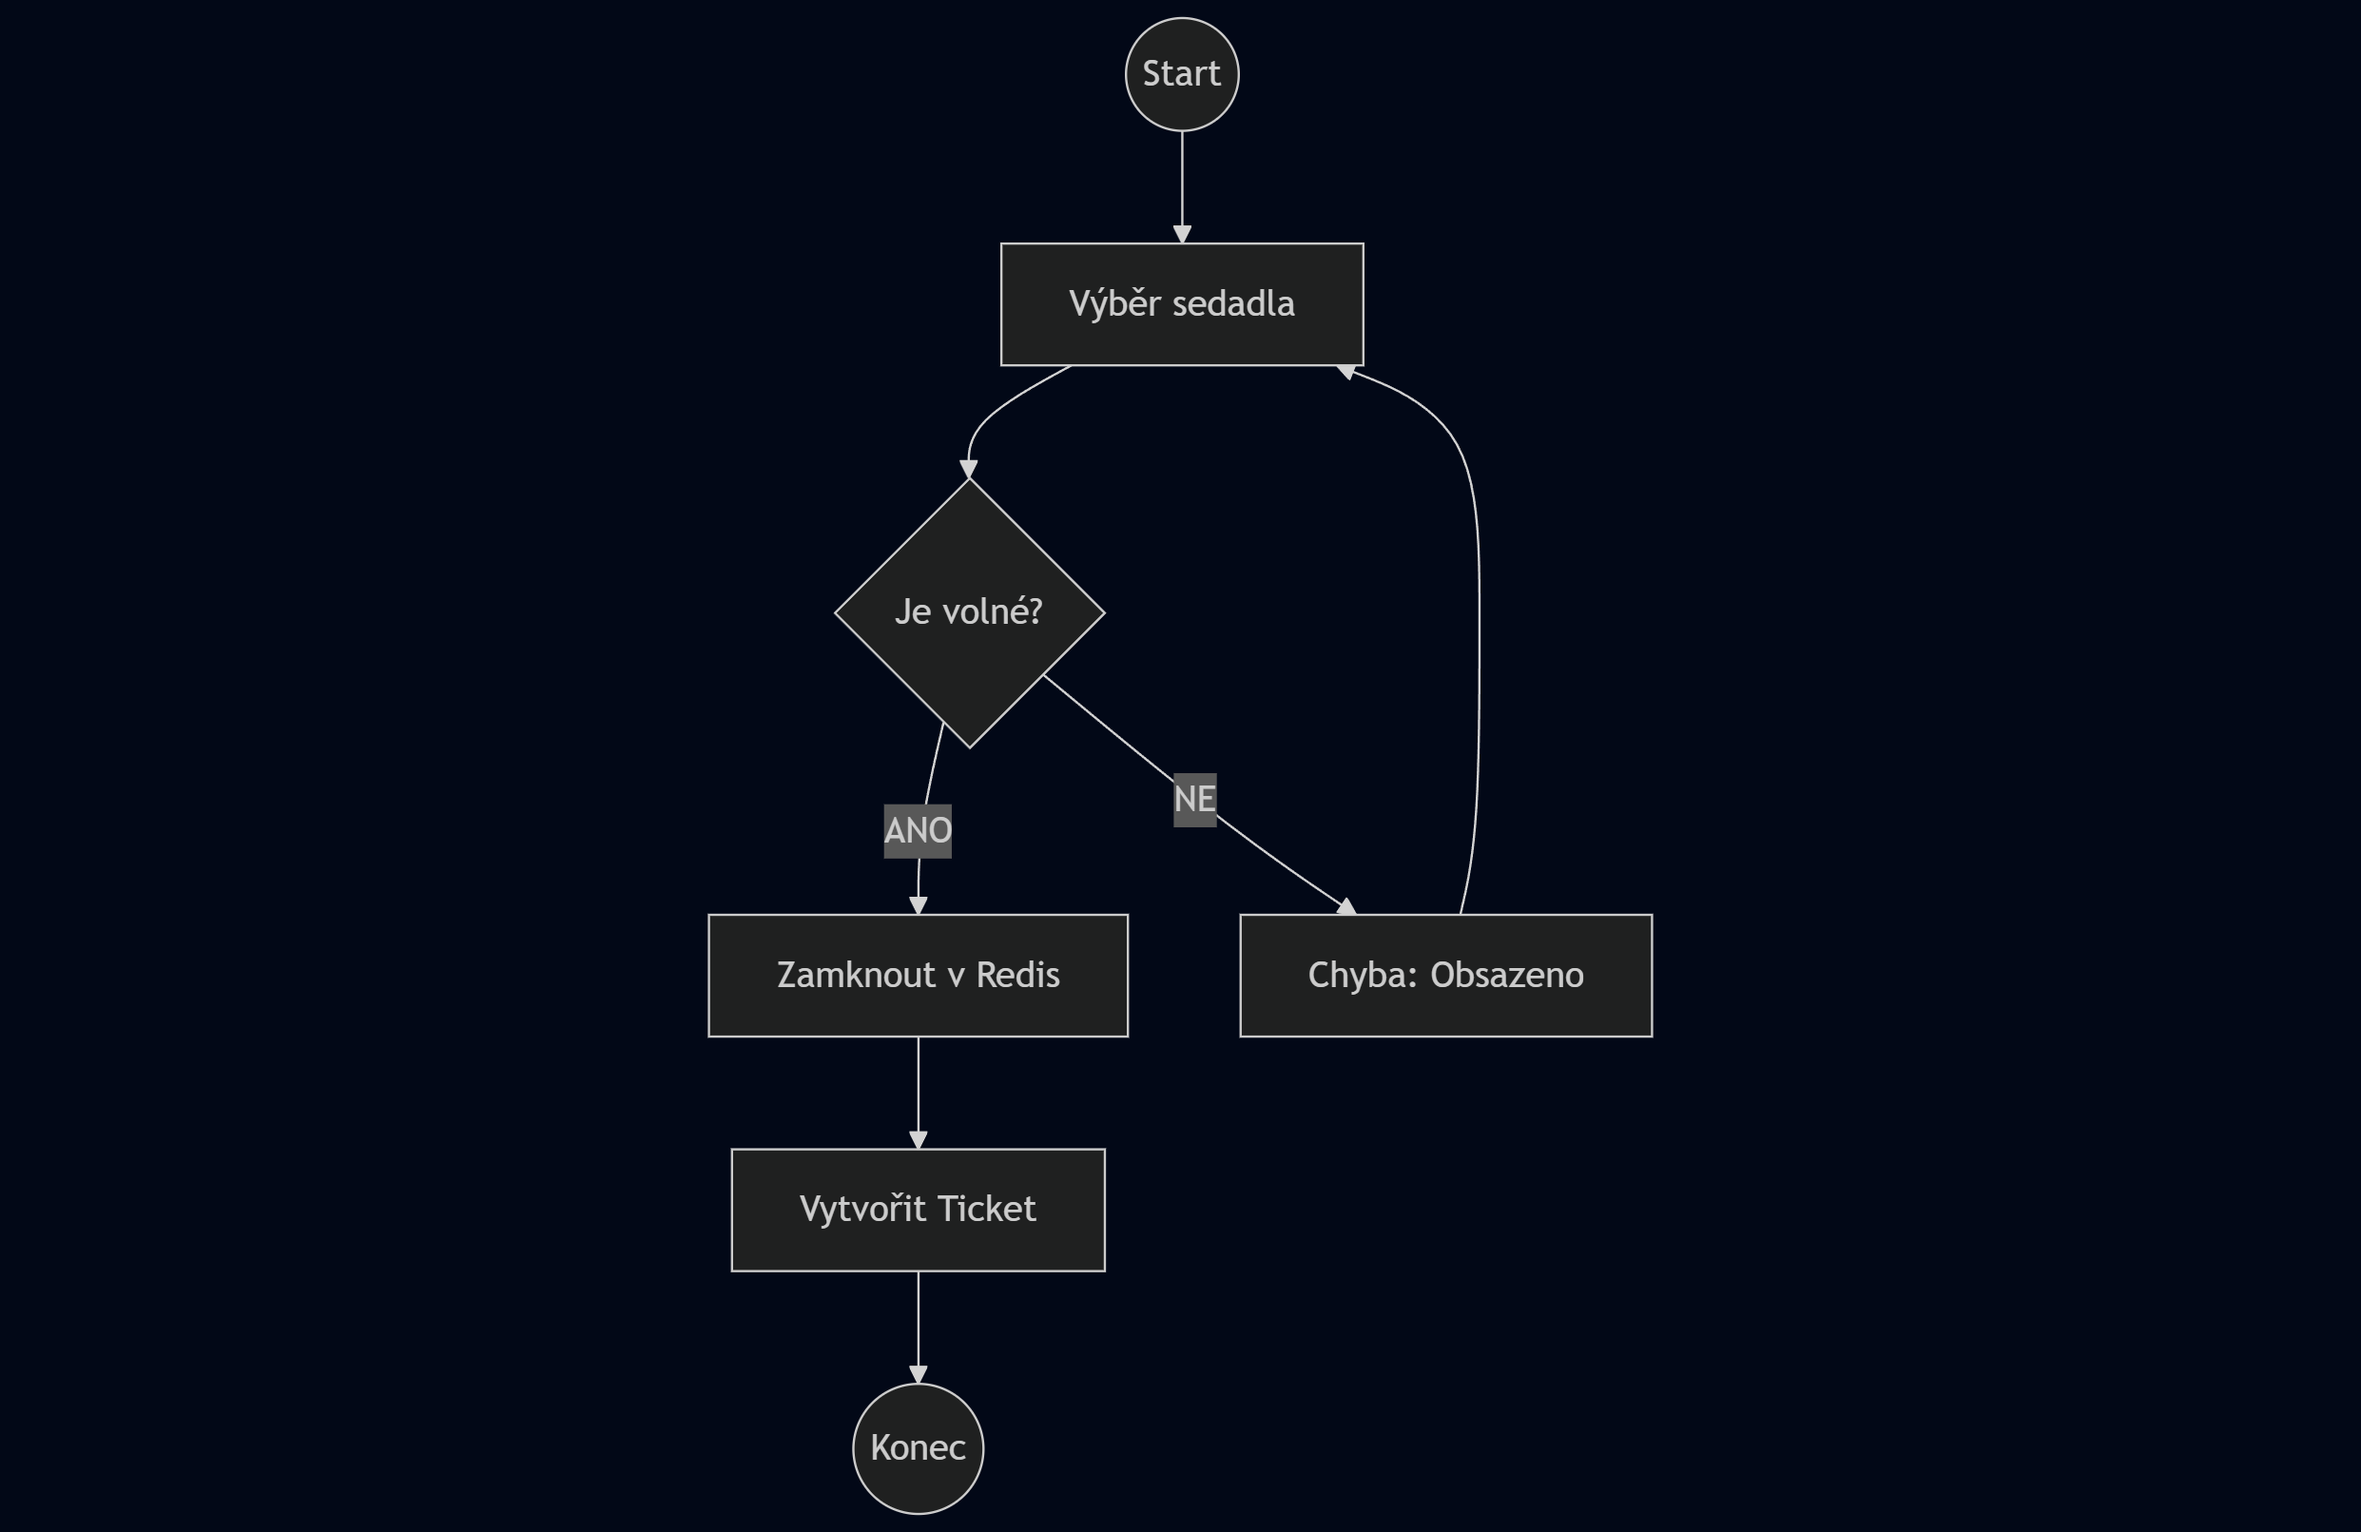
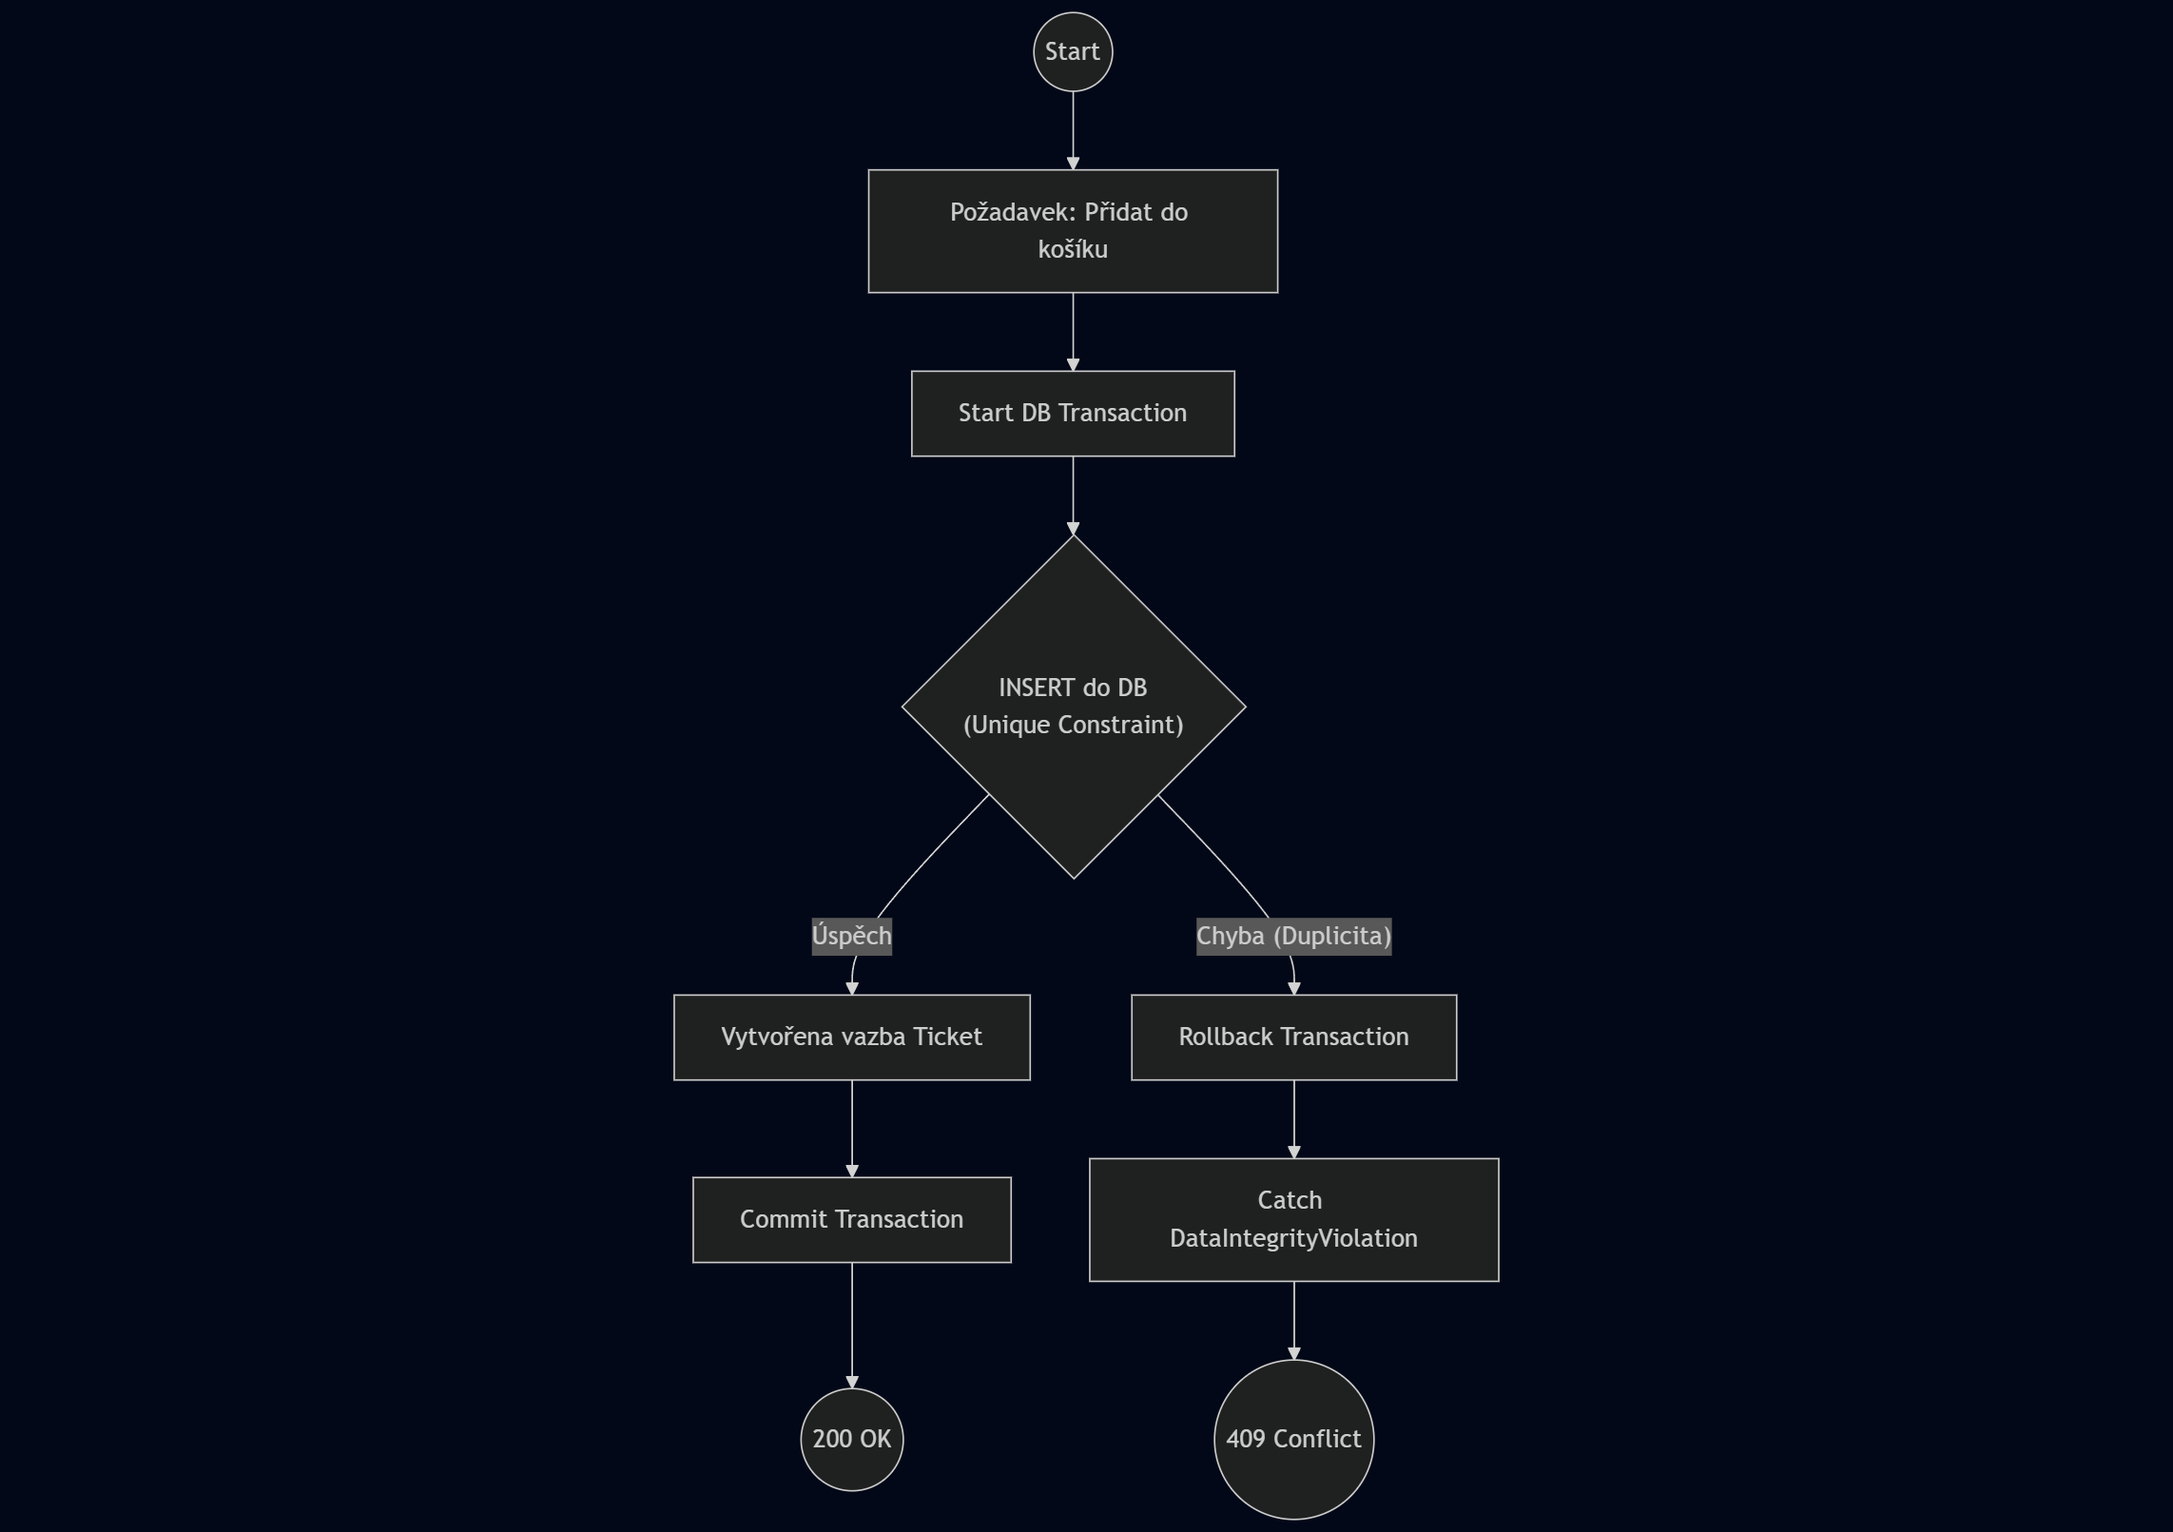
Úprava technické dokumentace

diff --git a/technical_doc.md b/technical_doc.md
@@ -28,7 +28,7 @@ Backendová logika je implementována v jazyce Java 21. Jako aplikační rámec 
 
 **Data & Storage**
 - **PostgreSQL** - Relační databáze (obraz `postgres:latest`)
-- **Redis 7** - In-memory databáze pro distribuované zámky a caching
+- **Redis 7** - In-memory úložiště využívané pro dočasné ukládání ověřovacích kódů (reset hesla, OAuth short-codes) a caching
 - **Spring Data JPA (Hibernate)** - ORM vrstva
 - **Flyway** - Verzování databázového schématu
 - **Redisson** - Redis klient pro Javu (správa distribuovaných zámků)
@@ -206,10 +206,11 @@ Kontrolery jsou umístěny v balíčku `cz.upce.fei.TicketApp.controller`.
 ## 6. Klíčové Funkcionality
 
 ### 6.1 Řešení Souběhu (Concurrency)
-Aplikace implementuje mechanismy proti **double-booking** (prodej stejného místa více uživatelům).
-- Při přidání místa do košíku (`CartService`) se provádí kontrola dostupnosti.
-- Pro kritické sekce (rezervace konkrétního sedadla) se využívají distribuované zámky (Redisson) nebo databázové zámky, aby se zajistila atomicita operace.
-- Testy `SeatingConcurrencyTest` a `StandingConcurrencyTest` ověřují, že systém správně zvládne nápor paralelních požadavků.
+Aplikace implementuje mechanismy proti **double-booking** (prodej stejného místa více uživatelům) přímo na databázové úrovni, což zajišťuje maximální konzistenci dat.
+
+* **Vstupenky na sezení (Seating):** Ochrana je zajištěna pomocí **unikátního databázového omezení (Unique Constraint)** na tabulce `tickets` nad sloupci `event_id` a `seat_id`. Pokud se dva uživatelé pokusí ve stejný okamžik rezervovat stejné sedadlo, databáze povolí pouze první `INSERT` a druhý skončí chybou `DataIntegrityViolationException`, kterou aplikace zachytí a vrátí uživateli chybovou hlášku (409 Conflict).
+* **Vstupenky na stání (Standing):** Protože zde neexistují konkrétní sedadla, ale pouze kapacita, využívá se **Pessimistic Locking** (`SELECT ... FOR UPDATE`). Při nákupu se řádek v tabulce `venues/events` uzamkne pro jedno vlákno, zkontroluje se kapacita, provede se odečet a až poté se zámek uvolní.
+* **Testy:** `SeatingConcurrencyTest` a `StandingConcurrencyTest` ověřují, že systém správně zvládne nápor paralelních požadavků (např. 10 vláken na jedno místo).
 
 ### 6.2 Generování Vstupenek (PDF & QR)
 - **QR Kódy:** Služba `QrCodeService` využívá knihovnu **ZXing** pro generování QR kódů obsahujících unikátní identifikátor vstupenky.
